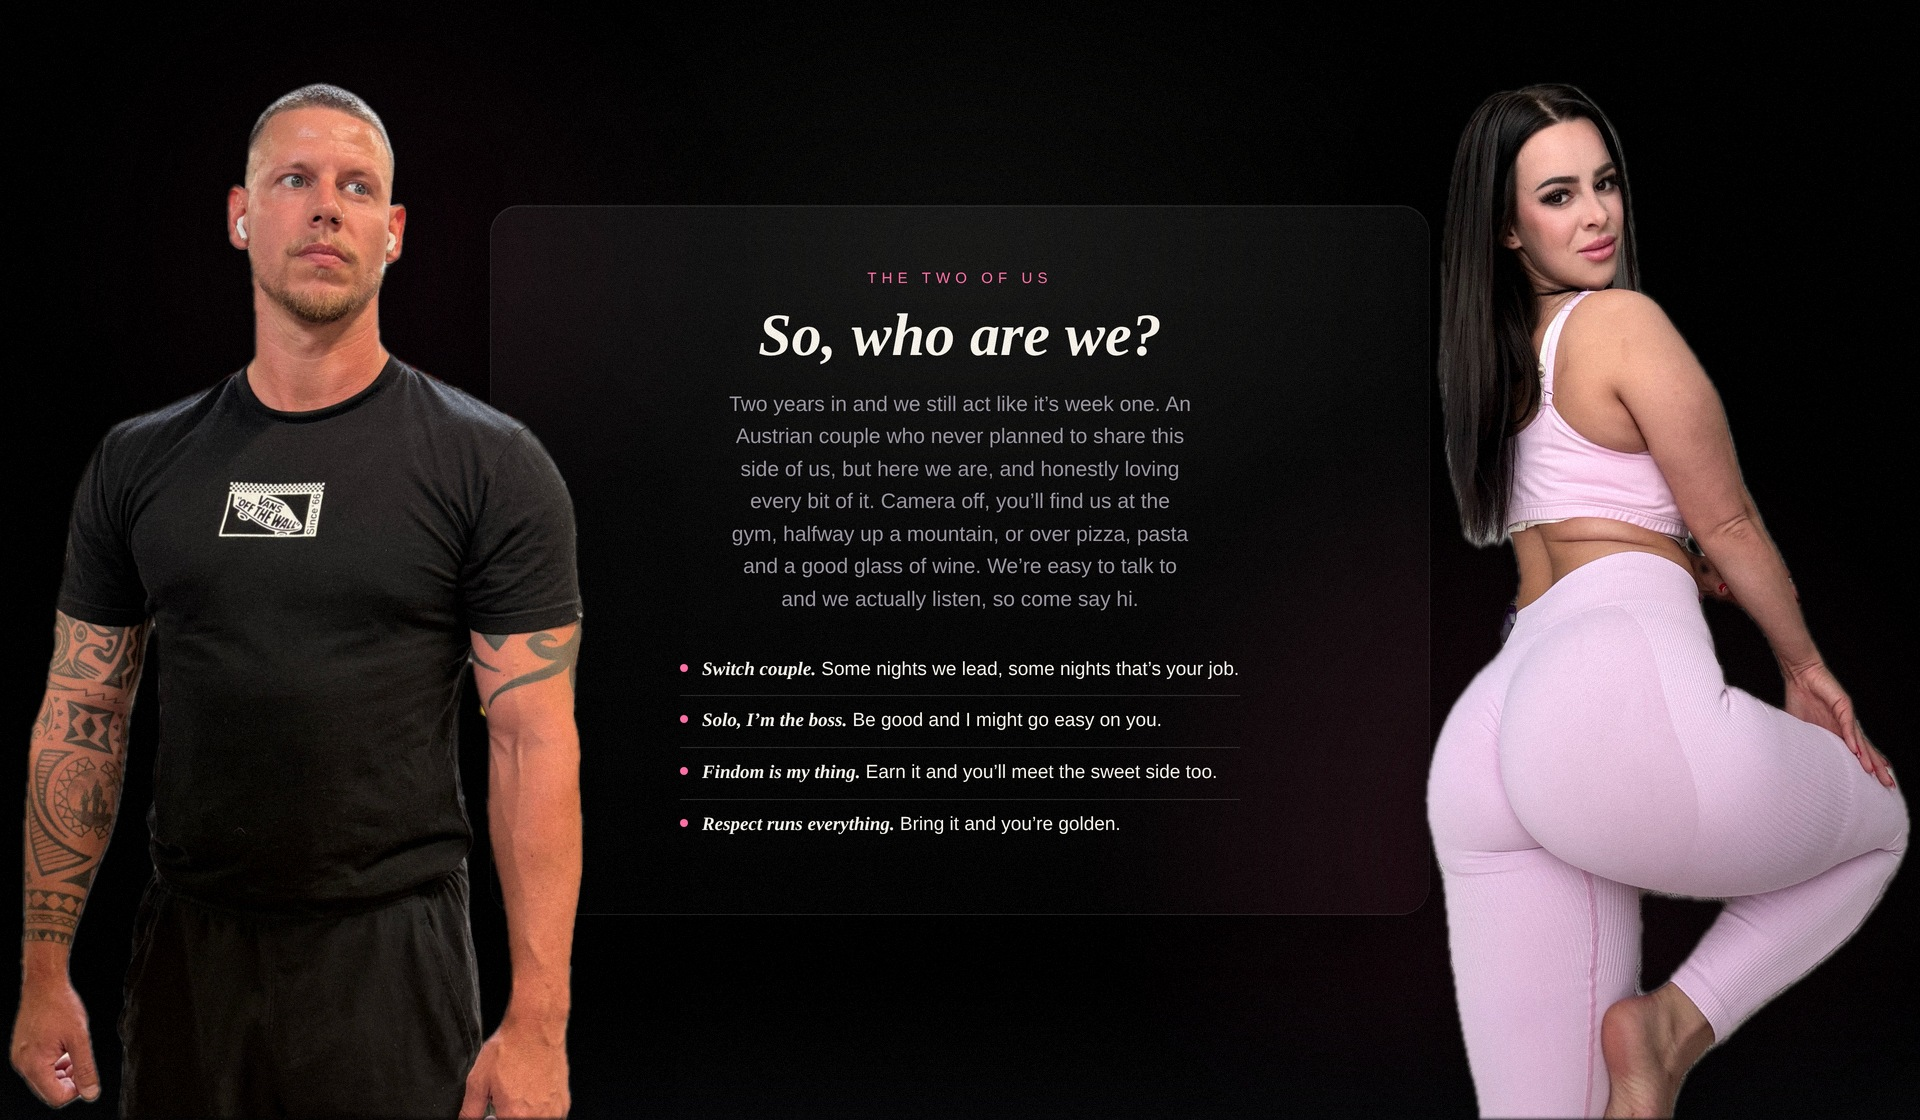
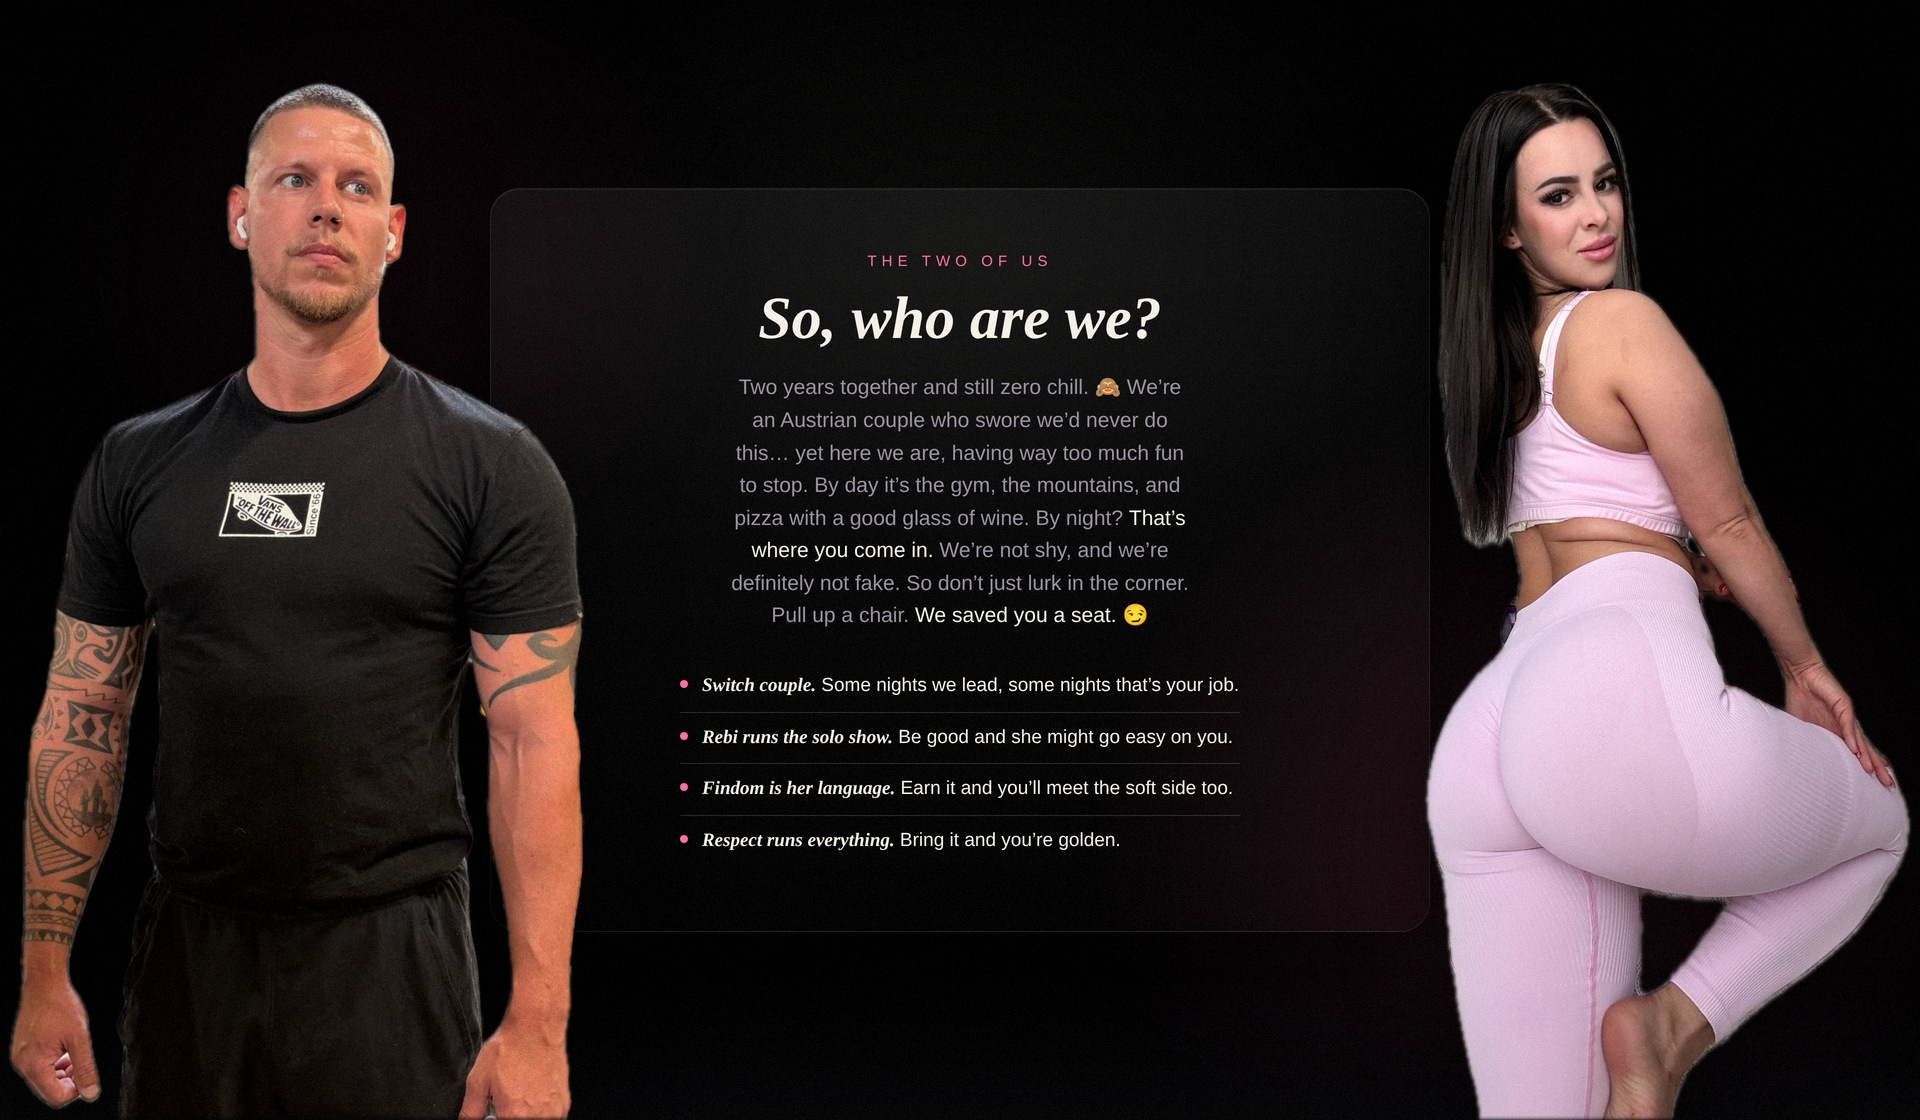
Rewrite About Me copy: playful, human, invites viewer into the game
Claude-Session: https://claude.ai/code/session_01RtbiUYFNdswaq59EqqYNLn

Changed region(s): [[0.375, 0.2188, 0.625, 0.5625], [0.3438, 0.5938, 0.6562, 0.7812]]

diff --git a/fg-about.html b/fg-about.html
@@ -45,11 +45,11 @@
   <div class="glass">
     <div class="eyebrow">The two of us</div>
     <h2>So, who are we?</h2>
-    <div class="lead">Two years in and we still act like it&#8217;s week one. An Austrian couple who never planned to share this side of us, but here we are, and honestly loving every bit of it. Camera off, you&#8217;ll find us at the gym, halfway up a mountain, or over pizza, pasta and a good glass of wine. We&#8217;re easy to talk to and we actually listen, so come say hi.</div>
+    <div class="lead">Two years together and still zero chill. 🙈 We&#8217;re an Austrian couple who swore we&#8217;d never do this&#8230; yet here we are, having way too much fun to stop. By day it&#8217;s the gym, the mountains, and pizza with a good glass of wine. By night? <b>That&#8217;s where you come in.</b> We&#8217;re not shy, and we&#8217;re definitely not fake. So don&#8217;t just lurk in the corner. Pull up a chair. <b>We saved you a seat.</b> 😏</div>
     <ul class="facts">
       <li><span class="n"></span><span><b>Switch couple.</b> Some nights we lead, some nights that&#8217;s your job.</span></li>
-      <li><span class="n"></span><span><b>Solo, I&#8217;m the boss.</b> Be good and I might go easy on you.</span></li>
-      <li><span class="n"></span><span><b>Findom is my thing.</b> Earn it and you&#8217;ll meet the sweet side too.</span></li>
+      <li><span class="n"></span><span><b>Rebi runs the solo show.</b> Be good and she might go easy on you.</span></li>
+      <li><span class="n"></span><span><b>Findom is her language.</b> Earn it and you&#8217;ll meet the soft side too.</span></li>
       <li><span class="n"></span><span><b>Respect runs everything.</b> Bring it and you&#8217;re golden.</span></li>
     </ul>
   </div>
